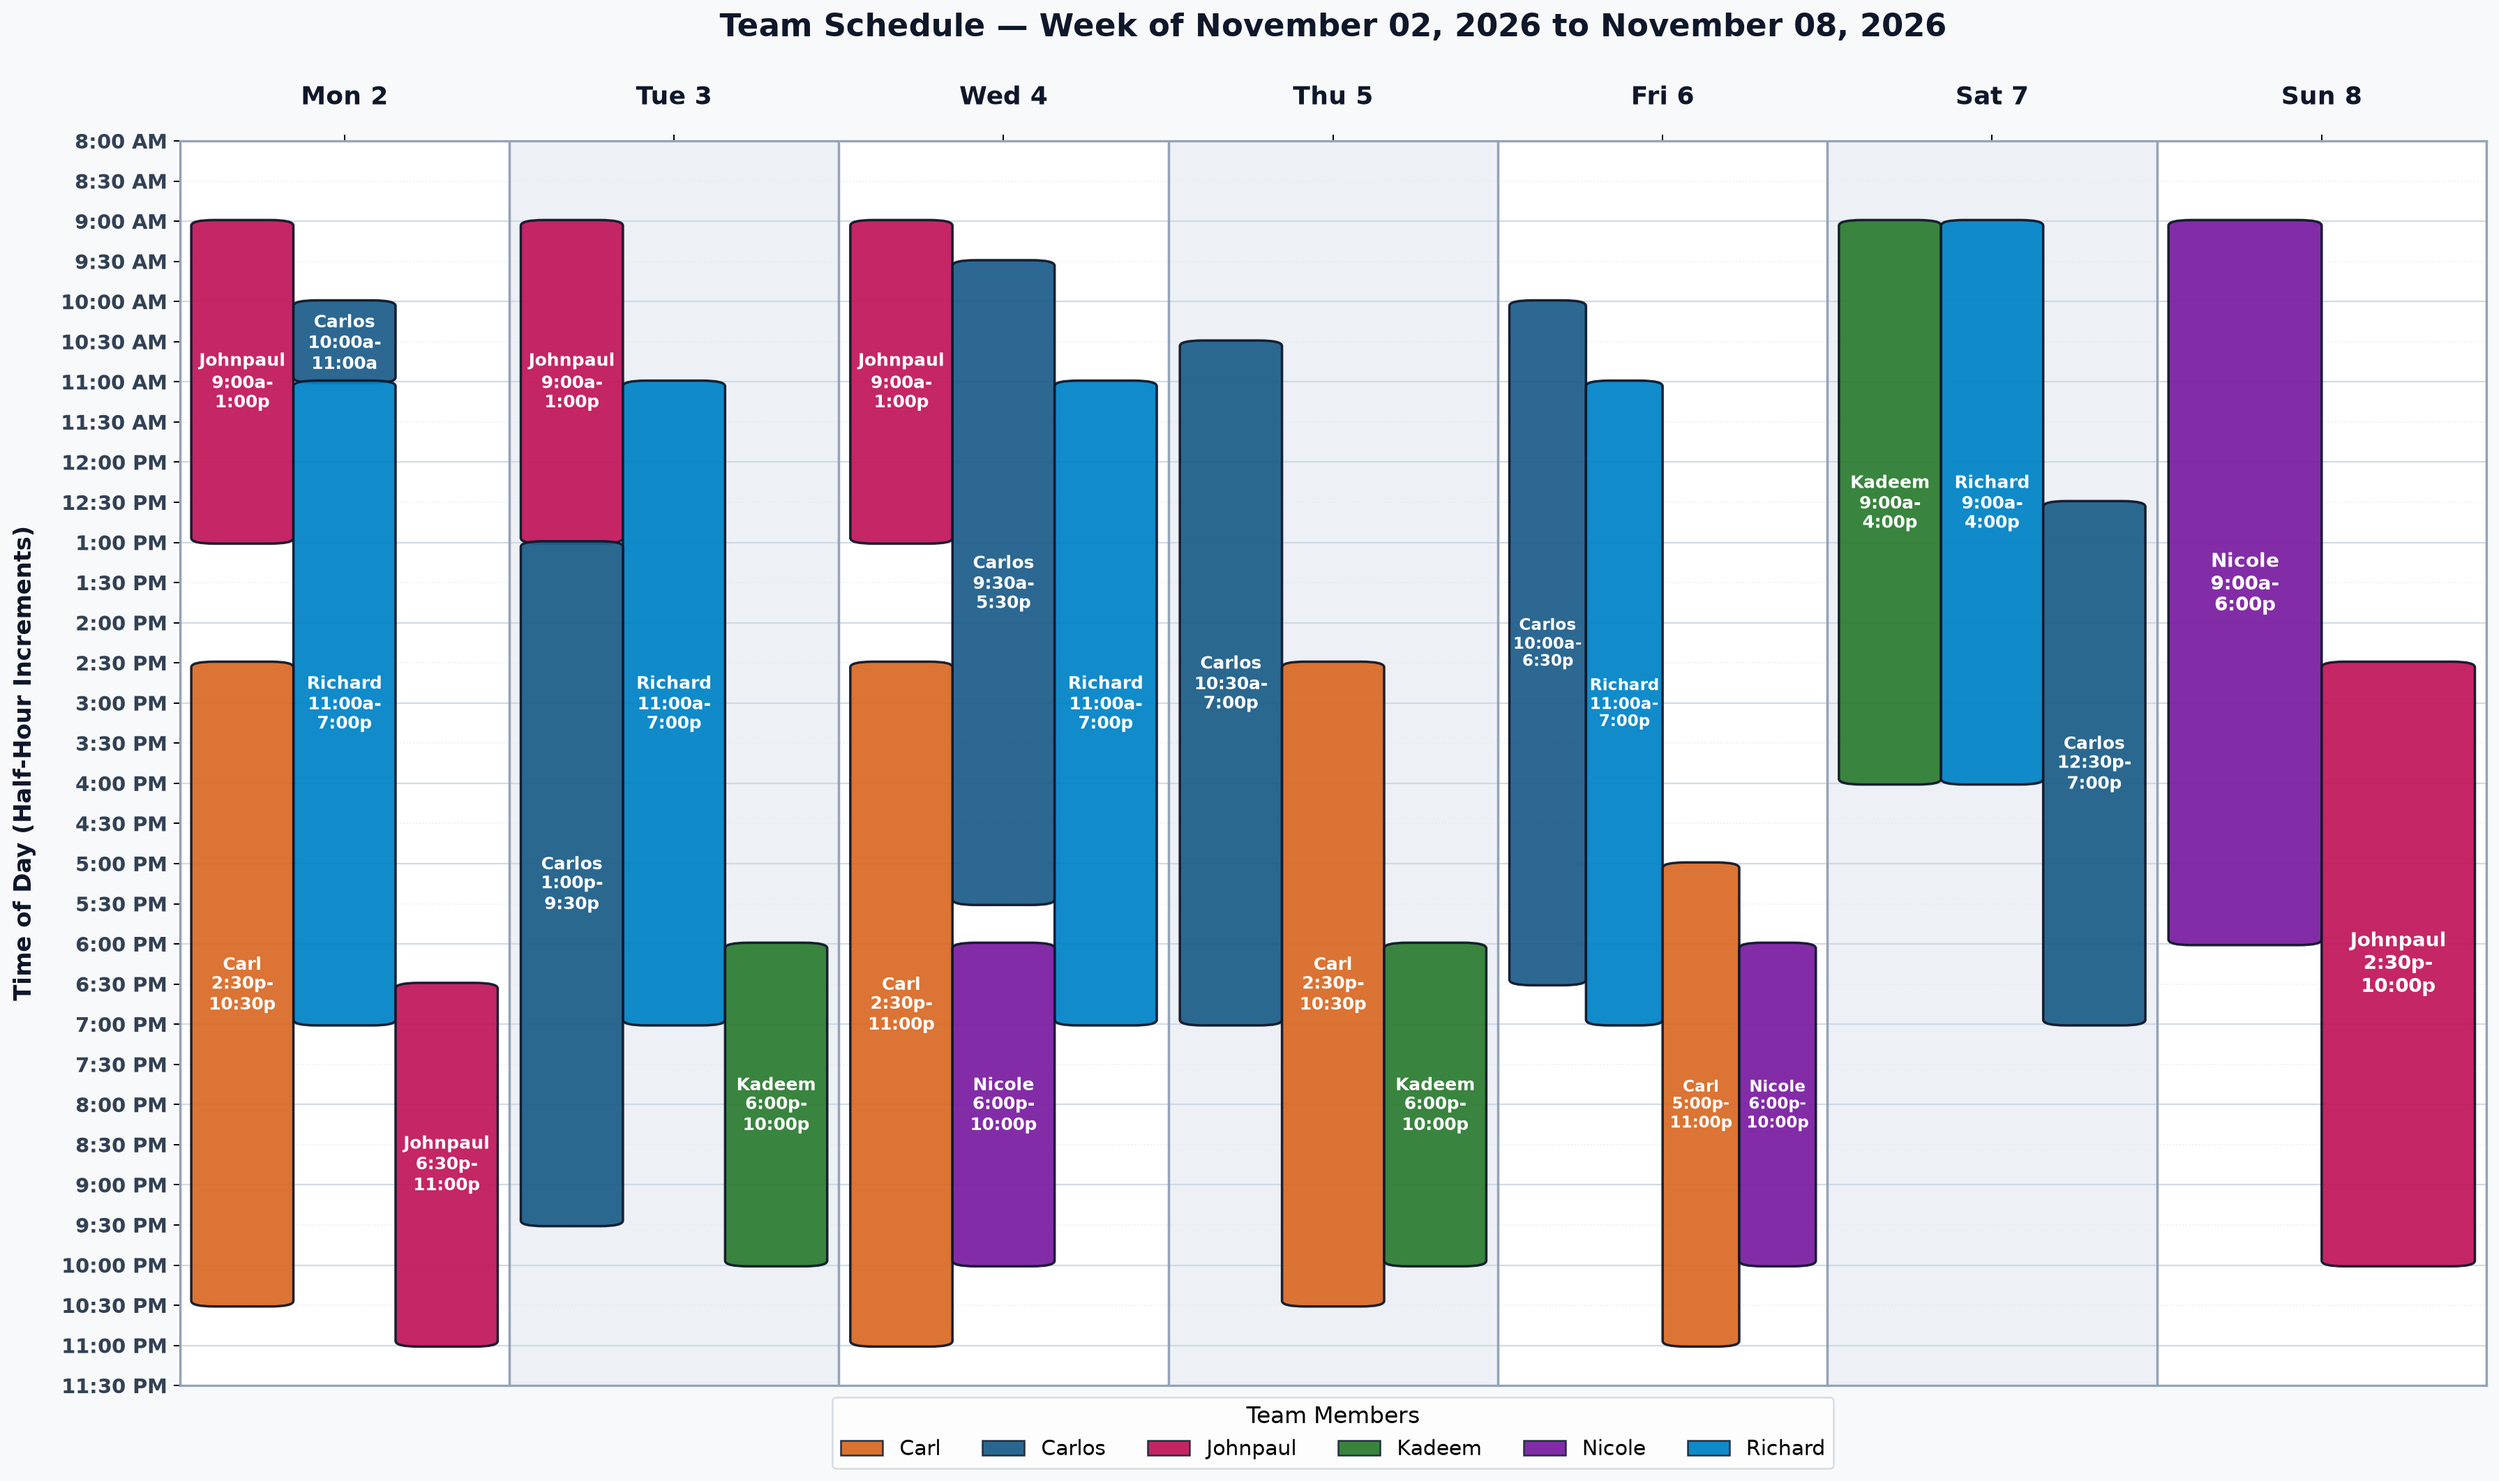
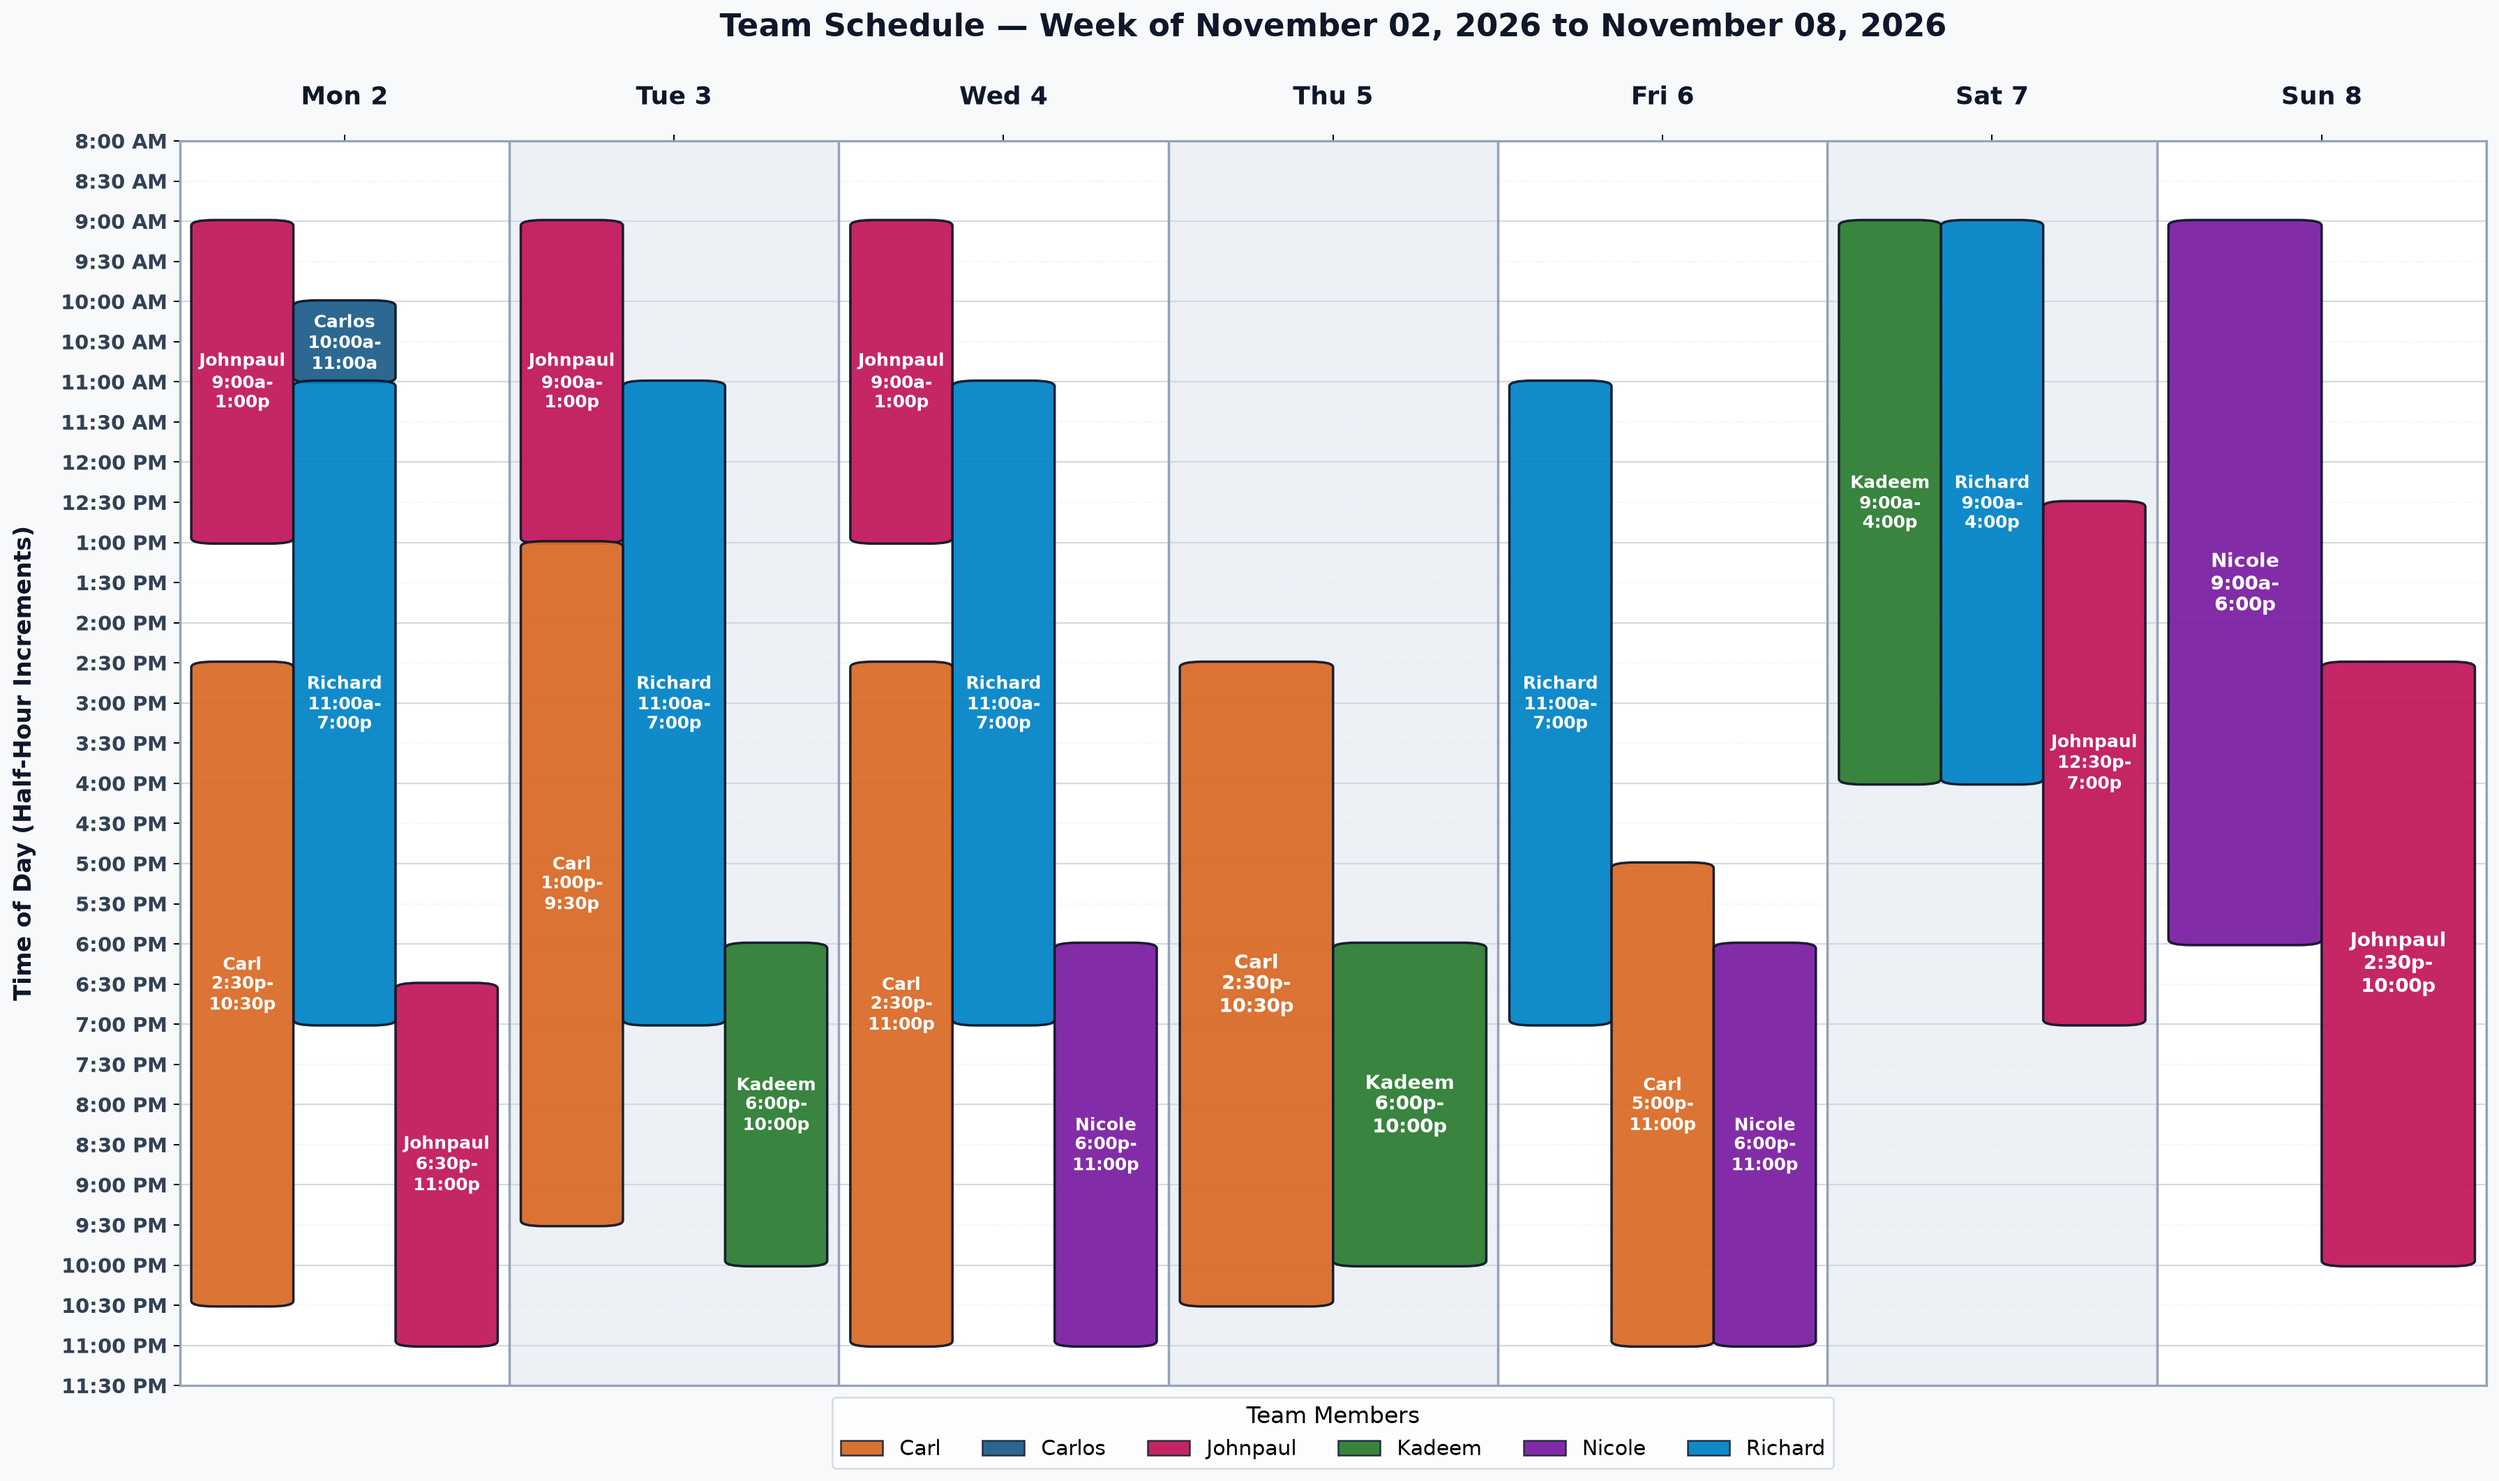
Update staff schedule hours for week of Nov 2 - Nov 8, 2026

diff --git a/schedule.html b/schedule.html
@@ -1019,17 +1019,17 @@
         "Jordan": "#D97706",
         "Chris": "#059669"
       },
-      "total_hours": 166.5,
-      "total_shifts": 26,
+      "total_hours": 143.5,
+      "total_shifts": 23,
       "stats": {
         "Carlos": {
-          "hours": 41.0,
-          "shifts": 6,
+          "hours": 1.0,
+          "shifts": 1,
           "color": "#1E5F8A"
         },
         "Carl": {
-          "hours": 30.5,
-          "shifts": 4,
+          "hours": 39.0,
+          "shifts": 5,
           "color": "#D96B27"
         },
         "Richard": {
@@ -1043,13 +1043,13 @@
           "color": "#2E7D32"
         },
         "Nicole": {
-          "hours": 17.0,
+          "hours": 19.0,
           "shifts": 3,
           "color": "#7B1FA2"
         },
         "Johnpaul": {
-          "hours": 24.0,
-          "shifts": 5,
+          "hours": 30.5,
+          "shifts": 6,
           "color": "#C2185B"
         }
       },
@@ -1062,46 +1062,18 @@
           "label": "10:00 AM - 11:00 AM"
         },
         {
-          "name": "Carlos",
-          "day": 1,
-          "start": 13.0,
-          "end": 21.5,
-          "label": "1:00 PM - 9:30 PM"
-        },
-        {
-          "name": "Carlos",
-          "day": 2,
-          "start": 9.5,
-          "end": 17.5,
-          "label": "9:30 AM - 5:30 PM"
-        },
-        {
-          "name": "Carlos",
-          "day": 3,
-          "start": 10.5,
-          "end": 19.0,
-          "label": "10:30 AM - 7:00 PM"
-        },
-        {
-          "name": "Carlos",
-          "day": 4,
-          "start": 10.0,
-          "end": 18.5,
-          "label": "10:00 AM - 6:30 PM"
-        },
-        {
-          "name": "Carlos",
-          "day": 5,
-          "start": 12.5,
-          "end": 19.0,
-          "label": "12:30 PM - 7:00 PM"
-        },
-        {
           "name": "Carl",
           "day": 0,
           "start": 14.5,
           "end": 22.5,
           "label": "2:30 PM - 10:30 PM"
+        },
+        {
+          "name": "Carl",
+          "day": 1,
+          "start": 13.0,
+          "end": 21.5,
+          "label": "1:00 PM - 9:30 PM"
         },
         {
           "name": "Carl",
@@ -1184,15 +1156,15 @@
           "name": "Nicole",
           "day": 2,
           "start": 18.0,
-          "end": 22.0,
-          "label": "6:00 PM - 10:00 PM"
+          "end": 23.0,
+          "label": "6:00 PM - 11:00 PM"
         },
         {
           "name": "Nicole",
           "day": 4,
           "start": 18.0,
-          "end": 22.0,
-          "label": "6:00 PM - 10:00 PM"
+          "end": 23.0,
+          "label": "6:00 PM - 11:00 PM"
         },
         {
           "name": "Nicole",
@@ -1228,6 +1200,13 @@
           "start": 9.0,
           "end": 13.0,
           "label": "9:00 AM - 1:00 PM"
+        },
+        {
+          "name": "Johnpaul",
+          "day": 5,
+          "start": 12.5,
+          "end": 19.0,
+          "label": "12:30 PM - 7:00 PM"
         },
         {
           "name": "Johnpaul",
